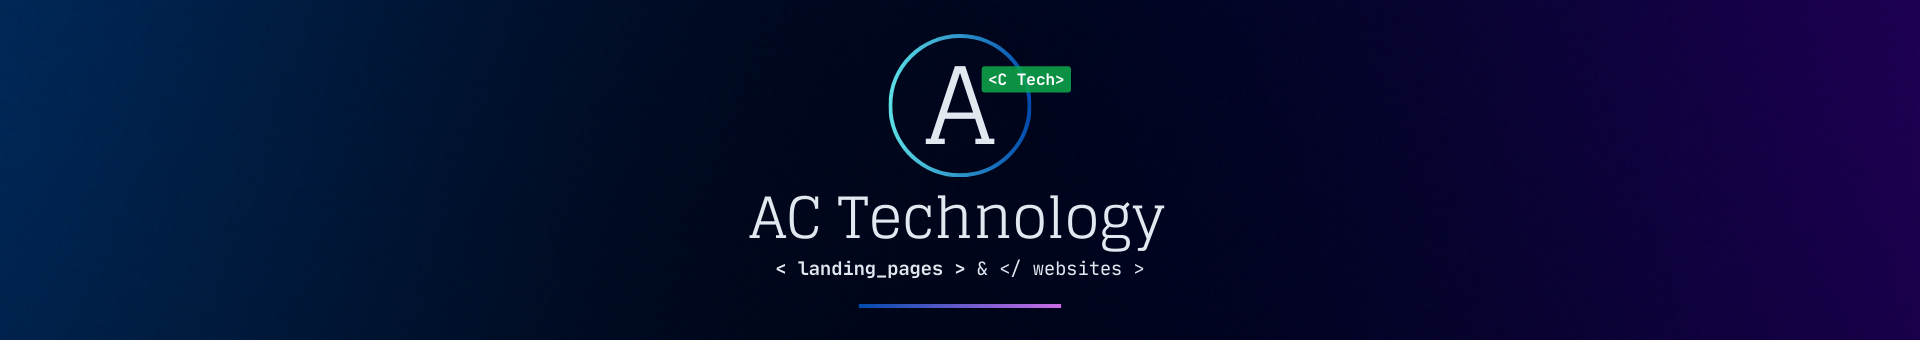
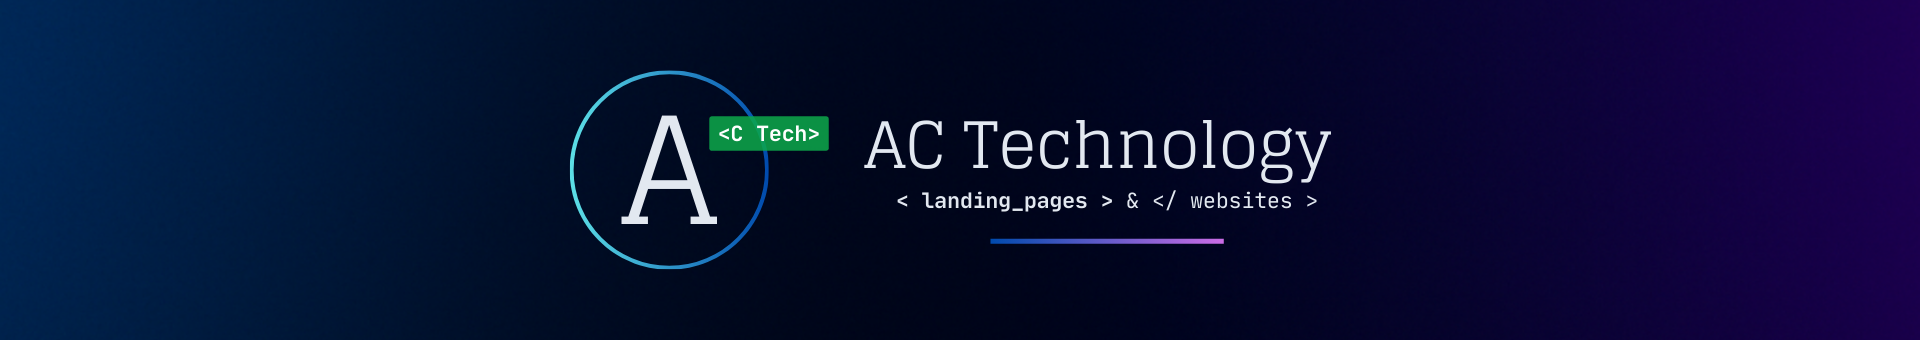
Troca da imagem do header

diff --git a/index.html b/index.html
@@ -244,7 +244,7 @@
 <body>
 <!-- LOGO -->
 <div class="logo-top">
-   <img src="logotipo-img.png" alt="Logo da AC Technology">
+   <img src="header-img.png" alt="Logo da AC Technology">
 </div>
 <!-- MENU -->
 <nav>
